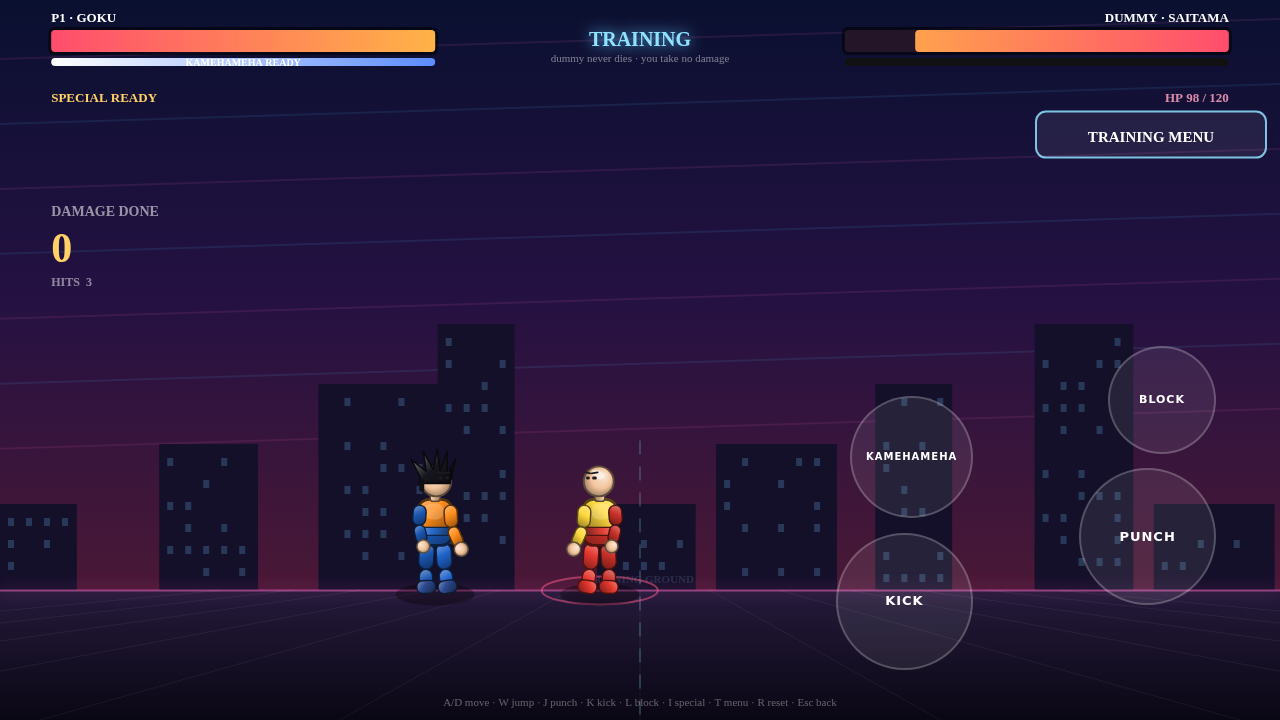
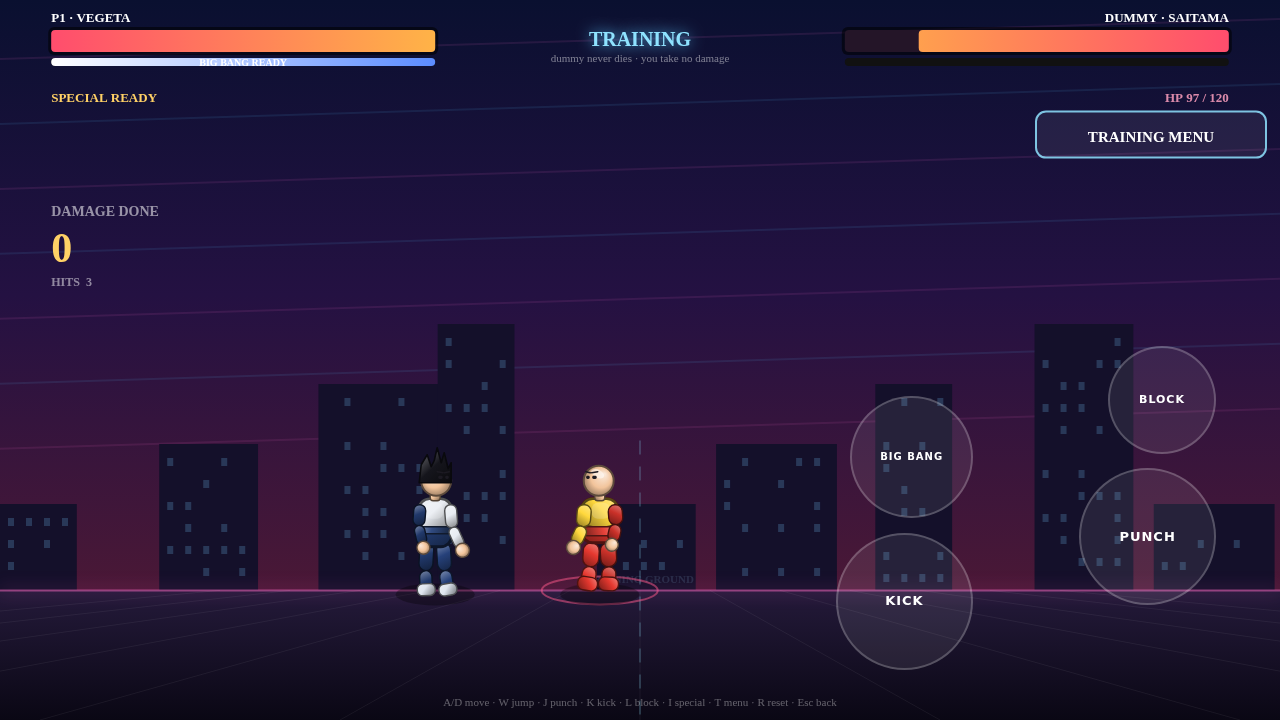
cursed-clash: per-character animation styles (brawler/royal/casual/ninja/samurai) — distinct stance width, idle arms, punch/kick/block curves, walk amplitudes; training picker now chooses the PLAYER (dummy follows as next char)

diff --git a/cursed-clash.html b/cursed-clash.html
@@ -132,31 +132,31 @@ function drawArm3d(g,shX,shY,upAng,elbAng,upLen,foreLen,wdt,col,handCol,handR){
    ============================================================ */
 const CHARS = [
   { id:'goku', name:'GOKU', tag:'Saiyan Raised on Earth',
-    colA:'#ff8c1a', colB:'#1f63c9', colC:'#16161e', skin:'#f2c49b', shoe:'#2b4a8f', hair:'goku',
+    colA:'#ff8c1a', colB:'#1f63c9', colC:'#16161e', skin:'#f2c49b', shoe:'#2b4a8f', hair:'goku', style:'brawler',
     hp:110, speed:320, dmg:1.00,
     ability:{name:'KAMEHAMEHA', short:'KAMEHAMEHA', type:'wave',
       desc:'Cups both palms and fires a huge blue-white ki beam straight across the screen.', dmg:20, kb:430, speed:640, col:'#63c8ff'} },
 
   { id:'vegeta', name:'VEGETA', tag:'Prince of All Saiyans',
-    colA:'#e8ecf2', colB:'#26417a', colC:'#15151c', skin:'#f2c49b', shoe:'#dfe6ef', hair:'vegeta',
+    colA:'#e8ecf2', colB:'#26417a', colC:'#15151c', skin:'#f2c49b', shoe:'#dfe6ef', hair:'vegeta', style:'royal',
     hp:105, speed:315, dmg:1.05,
     ability:{name:'BIG BANG ATTACK', short:'BIG BANG', type:'orb',
       desc:'Hurls a huge blue-white ki sphere that pierces through anything.', dmg:26, kb:400, speed:300, col:'#8fd8ff', bigOrb:true, r:42} },
 
   { id:'saitama', name:'SAITAMA', tag:'One Punch',
-    colA:'#ffd83d', colB:'#e5382f', colC:'#eef2f5', skin:'#f2c49b', shoe:'#e5382f', hair:'bald',
+    colA:'#ffd83d', colB:'#e5382f', colC:'#eef2f5', skin:'#f2c49b', shoe:'#e5382f', hair:'bald', style:'casual',
     hp:120, speed:340, dmg:1.20,
     ability:{name:'SERIOUS PUNCH', short:'SERIOUS', type:'burst',
       desc:'One punch. Massive damage if it connects.', dmg:34, kb:620, dashT:0.34, col:'#ffe14d', fx:'punch'} },
 
   { id:'hiei', name:'HIEI', tag:'Master of the Jagan',
-    colA:'#191b26', colB:'#4a2a7a', colC:'#0c0c12', skin:'#e9cda9', shoe:'#101018', hair:'hiei',
+    colA:'#191b26', colB:'#4a2a7a', colC:'#0c0c12', skin:'#e9cda9', shoe:'#101018', hair:'hiei', style:'ninja',
     hp:100, speed:352, dmg:1.08,
     ability:{name:'DRAGON OF THE DARKNESS FLAME', short:'DARK FLAME', type:'wave',
       desc:'Unleashes the black dragon of the Darkness Flame straight across the screen.', dmg:24, kb:470, speed:560, col:'#a24dff', kind:'dragon', r:42, h:96} },
 
   { id:'shishio', name:'SHISHIO', tag:'The Hitokiri Battousai Slayer',
-    colA:'#2b2430', colB:'#c9b79a', colC:'#141018', skin:'#e7c6a1', shoe:'#1c1720', hair:'shishio',
+    colA:'#2b2430', colB:'#c9b79a', colC:'#141018', skin:'#e7c6a1', shoe:'#1c1720', hair:'shishio', style:'samurai',
     hp:108, speed:326, dmg:1.12,
     ability:{name:'HOMURA DAMA', short:'HOMURA DAMA', type:'burst',
       desc:'Erupts in searing flame — a point-blank blast that shreds through guard.', dmg:28, kb:560, dashT:0.32, col:'#ff5a1f', fx:'fire'} }
@@ -502,9 +502,54 @@ class Fighter {
 // Walk cycle: distance the fighter travels per full stride (2 steps).
 // Keep ground speed locked to the cycle so the feet plant without sliding.
 const WALK_CYCLE_PX = 84;   // ~2x the planted foot's ground travel per step
-function walkJoint(K){
+/* ---- per-character animation styles ---- */
+const STYLE = { BRAWLER:'brawler', ROYAL:'royal', CASUAL:'casual', NINJA:'ninja', SAMURAI:'samurai' };
+const STYLE_CFG = {
+  brawler:{ label:'heavy brawler', shoulderY:-86, torsoW:34, torsoH:46, beltH:8, legW:15, thigh:26, shin:24,
+    armW:13, upLen:20, foreLen:18,
+    spread:11, idle:{bUp:0.34,bElb:-0.55,fUp:0.30,fElb:-0.66},
+    walk:{ hipAmp:1.0, kneeAmp:1.0, hipRaise:0, hipBack:0, lean:0.10, armAmp:1.0, sway:2.4 },
+    punch:{ wind:[0.10,-0.55,-0.30,-1.75], hit:[-0.55,-1.52,-1.75,-0.04], rec:[-1.52,0.05,-0.04,-0.32], lean:0 },
+    kickRear:[0.14,-0.20], kick:{ w:[-0.10,-1.05,-0.20,-1.55,0,0.3], h:[-1.05,-1.42,-1.55,-0.08,0,-0.35], r:[-0.06,-0.14,-0.35,0] },
+    block:{ f:[-Math.PI/2+0.9,-0.9], b:[-Math.PI/2+0.9,-0.9], lean:0 },
+    idlePhase:0.0 },
+  royal:{ label:'royal kickboxer', shoulderY:-86, torsoW:33, torsoH:48, beltH:7, legW:14, thigh:28, shin:25,
+    armW:12, upLen:21, foreLen:19,
+    spread:8, idle:{bUp:-1.12,bElb:-1.32,fUp:-1.00,fElb:-1.42},
+    walk:{ hipAmp:1.14, kneeAmp:1.14, hipRaise:0, hipBack:0.05, lean:0.17, armAmp:0.72, sway:2.0 },
+    punch:{ wind:[0.10,-0.30,-0.32,-1.95], hit:[-0.30,-1.62,-1.95,-0.02], rec:[-1.62,0.10,-0.02,-0.40], lean:0.04 },
+    kickRear:[0.16,-0.24], kick:{ w:[-0.12,-1.20,-0.24,-1.72,0,0.36], h:[-1.20,-1.55,-1.72,-0.06,0,-0.42], r:[-0.08,-0.16,-0.42,0] },
+    block:{ f:[-2.22,-1.05], b:[-2.12,-1.15], lean:0.02 },
+    idlePhase:0.7 },
+  casual:{ label:'lazy puncher', shoulderY:-87, torsoW:36, torsoH:44, beltH:9, legW:16, thigh:24, shin:24,
+    armW:14, upLen:20, foreLen:17,
+    spread:6, idle:{bUp:0.04,bElb:-0.14,fUp:0.02,fElb:-0.20},
+    walk:{ hipAmp:0.78, kneeAmp:0.72, hipRaise:2.5, hipBack:0, lean:0.05, armAmp:0.55, sway:3.0 },
+    punch:{ wind:[0.10,-0.15,-0.30,-1.20], hit:[-0.15,-1.40,-1.20,0.06], rec:[-1.40,0.02,0.06,-0.18], lean:0 },
+    kickRear:[0.10,-0.16], kick:{ w:[-0.08,-0.78,-0.16,-1.15,0,0.22], h:[-0.78,-1.10,-1.15,-0.10,0,-0.24], r:[-0.05,-0.12,-0.24,0] },
+    block:{ f:[-0.40,-1.30], b:[0.25,-0.70], lean:0 },
+    idlePhase:1.3 },
+  ninja:{ label:'quick ninja', shoulderY:-84, torsoW:32, torsoH:45, beltH:6, legW:13, thigh:27, shin:24,
+    armW:12, upLen:19, foreLen:18,
+    spread:7, idle:{bUp:-0.62,bElb:-1.52,fUp:-0.52,fElb:-1.62},
+    walk:{ hipAmp:1.10, kneeAmp:1.30, hipRaise:0, hipBack:0.03, lean:0.23, armAmp:0.70, sway:1.6 },
+    punch:{ wind:[0.10,-0.75,-0.30,-2.05], hit:[-0.75,-1.48,-2.05,-0.12], rec:[-1.48,0.00,-0.12,-0.28], lean:0.03 },
+    kickRear:[0.12,-0.28], kick:{ w:[-0.10,-1.05,-0.30,-1.70,0,0.30], h:[-1.05,-1.48,-1.70,-0.05,0,-0.30], r:[-0.06,-0.12,-0.30,0] },
+    block:{ f:[-1.95,-0.75], b:[-0.45,-1.35], lean:0 },
+    idlePhase:1.9 },
+  samurai:{ label:'stern swordsman', shoulderY:-90, torsoW:35, torsoH:50, beltH:8, legW:15, thigh:28, shin:26,
+    armW:13, upLen:21, foreLen:19,
+    spread:12, idle:{bUp:0.42,bElb:-0.85,fUp:0.52,fElb:-0.95},
+    walk:{ hipAmp:0.88, kneeAmp:0.90, hipRaise:0, hipBack:0, lean:0.12, armAmp:0.45, sway:1.1 },
+    punch:{ wind:[0.10,-0.35,-0.32,-1.60], hit:[-0.35,-1.58,-1.60,0.04], rec:[-1.58,0.06,0.04,-0.44], lean:0.05 },
+    kickRear:[0.16,-0.22], kick:{ w:[-0.12,-0.95,-0.22,-1.35,0,0.28], h:[-0.95,-1.38,-1.35,-0.10,0,-0.28], r:[-0.06,-0.14,-0.28,0] },
+    block:{ f:[-1.55,-0.65], b:[0.70,-0.95], lean:0 },
+    idlePhase:2.4 }
+};
+function styleConfig(c){ return STYLE_CFG[c.style] || STYLE_CFG.brawler; }
+function walkJoint(K,sk){
   K=((K%1)+1)%1;
-  const ease=t=>t*t*(3-2*t);
+  const e=sk?sk.walk:STYLE_CFG.brawler.walk, ease=t=>t*t*(3-2*t);
   const C=(keys)=>{                              // smooth keyed curve
     for(let i=0;i<keys.length-1;i++){
       const [k0,v0]=keys[i], [k1,v1]=keys[i+1];
@@ -512,10 +557,23 @@ function walkJoint(K){
     }
     return keys[keys.length-1][1];
   };
-  const hipFwd  = C([[0,.50],[.12,.29],[.25,.06],[.40,-.24],[.50,-.44],[.62,-.26],[.75,.13],[.88,.44],[1,.50]]); // + = knee forward
-  const kneeFlex= C([[0,.16],[.12,.28],[.25,.20],[.40,.16],[.50,.40],[.62,.95],[.72,1.28],[.82,.82],[.92,.32],[1,.16]]); // + = heel folds back
-  const ank     = C([[0,-.10],[.12,.05],[.25,.00],[.40,.10],[.50,.45],[.62,.30],[.72,.05],[.82,-.05],[.92,-.12],[1,-.10]]); // + = toes down
+  const ha=e.hipAmp;
+  const hipFwd  = C([[0,.50],[.12,.29],[.25,.06],[.40,-.24],[.50,-.44],[.62,-.26],[.75,.13],[.88,.44],[1,.50]])*ha + (e.hipBack||0); // + = knee forward
+  const kneeFlex= C([[0,.16],[.12,.28],[.25,.20],[.40,.16],[.50,.40],[.62,.95],[.72,1.28],[.82,.82],[.92,.32],[1,.16]])*e.kneeAmp; // + = heel folds back
+  const ank     = C([[0,-.10],[.12,.05],[.25,.00],[.40,.10],[.50,.45],[.62,.30],[.72,.05],[.82,-.05],[.92,-.12],[1,-.10]])*ha; // + = toes down
   return {thigh:-hipFwd, knee:kneeFlex, foot:ank};
+}
+function kickPose(st,stage,k){
+  const S=st.kick;
+  if(stage==='wind') return {th:lerp(S.w[0],S.w[1],k), kn:lerp(S.w[2],S.w[3],k), ft:lerp(S.w[4],S.w[5],k)};
+  if(stage==='hit')  return {th:lerp(S.h[0],S.h[1],k), kn:lerp(S.h[2],S.h[3],k), ft:lerp(S.h[4],S.h[5],k)};
+  return {th:S.r[0]+(S.h[1]-S.r[0])*0, kn:S.r[1], ft:lerp(S.r[2],S.r[3],k), rec:true};
+}
+function punchPose(st,stage,k){
+  const P=st.punch;
+  if(stage==='wind') return {fUp:lerp(P.wind[0],P.wind[1],k), fElb:lerp(P.wind[2],P.wind[3],k)};
+  if(stage==='hit')  return {fUp:lerp(P.hit[0],P.hit[1],k),  fElb:lerp(P.hit[2],P.hit[3],k)};
+  return {fUp:lerp(P.rec[0],P.rec[1],k), fElb:lerp(P.rec[2],P.rec[3],k)};
 }
 function atkStage(a){
   if(a.t < a.startup)               return {stage:'wind', k: a.startup?a.t/a.startup:1};
@@ -539,35 +597,36 @@ function paintFighter(g,c,S){
   const pnPh = (pn && S.atk) ? atkStage(S.atk) : null;
   const kkPh = (kk && S.atk) ? atkStage(S.atk) : null;
 
+  // ---- per-character style ----
+  const STD=styleConfig(c), WK=STD.walk;
   // ---- legs (thigh + shin + foot, knee folds backward) ----
-  const HIP_Y=-48+bob, THIGH=26, SHIN=24, LEGW=15;
+  const HIP_Y=-48+bob, THIGH=STD.thigh, SHIN=STD.shin, LEGW=STD.legW;
+  const SP=STD.spread!=null?STD.spread:8;
   if(kkPh){
     // planted rear leg
-    drawLeg3d(g,-8,HIP_Y, 0.14,-0.20, THIGH,SHIN,LEGW, dark(c.colB,0.12), shoe);
+    drawLeg3d(g,-SP,HIP_Y, STD.kickRear[0],STD.kickRear[1], THIGH,SHIN,LEGW, dark(c.colB,0.12), shoe);
     // kicking front leg: knee up -> snap out -> retract
-    let th,kn,ft,k;
-    if(kkPh.stage==='wind'){ k=smooth(kkPh.k); th=lerp(-0.10,-1.05,k); kn=lerp(-0.20,-1.55,k); ft=0.3*k; }
-    else if(kkPh.stage==='hit'){ k=smooth(kkPh.k); th=lerp(-1.05,-1.42,k); kn=lerp(-1.55,-0.08,k); ft=-0.35*k; }
-    else { k=smooth(kkPh.k); th=lerp(-1.42,-0.06,k); kn=lerp(-0.08,-0.14,k); ft=-0.35*(1-k); }
-    drawLeg3d(g,8,HIP_Y, th,kn, THIGH,SHIN,LEGW, c.colB, shoe, ft);
+    const p=kickPose(STD,kkPh.stage,smooth(kkPh.k));
+    drawLeg3d(g,SP,HIP_Y, p.th,p.kn, THIGH,SHIN,LEGW, c.colB, shoe, p.ft);
   } else if(walking){
-    for(const L of [{hip:-8,ph:0,col:dark(c.colB,0.12)},{hip:8,ph:0.5,col:c.colB}]){
-      const j=walkJoint(a/6.2831853+L.ph);          // real hip/knee/ankle curves
+    for(const L of [{hip:-SP,ph:0,col:dark(c.colB,0.12)},{hip:SP,ph:0.5,col:c.colB}]){
+      const j=walkJoint(a/6.2831853+L.ph, STD);      // real hip/knee/ankle curves (per-style)
       drawLeg3d(g,L.hip,HIP_Y,j.thigh,j.knee,THIGH,SHIN,LEGW,L.col,shoe,j.foot);
     }
   } else if(airborne){
-    drawLeg3d(g,-8,HIP_Y, 0.45,-0.75, THIGH,SHIN,LEGW,dark(c.colB,0.12),shoe, 0.3);
-    drawLeg3d(g, 8,HIP_Y,-0.35,-0.5,  THIGH,SHIN,LEGW,c.colB,shoe, 0.3);
+    drawLeg3d(g,-SP,HIP_Y, 0.45,-0.75, THIGH,SHIN,LEGW,dark(c.colB,0.12),shoe, 0.3);
+    drawLeg3d(g, SP,HIP_Y,-0.35,-0.5,  THIGH,SHIN,LEGW,c.colB,shoe, 0.3);
   } else {
-    drawLeg3d(g,-8,HIP_Y, 0.06,-0.10, THIGH,SHIN,LEGW,dark(c.colB,0.12),shoe);
-    drawLeg3d(g, 8,HIP_Y,-0.06,-0.10, THIGH,SHIN,LEGW,c.colB,shoe);
+    drawLeg3d(g,-SP,HIP_Y, 0.06,-0.10, THIGH,SHIN,LEGW,dark(c.colB,0.12),shoe);
+    drawLeg3d(g, SP,HIP_Y,-0.06,-0.10, THIGH,SHIN,LEGW,c.colB,shoe);
   }
 
   // ---- torso ----
-  part3d(g,-17,-92+bob,34,46,11,sub);
-  part3d(g,-17,-92+bob,34,30,11,gi);             // gi top
+  const TW=STD.torsoW, TH=STD.torsoH, TX=-TW/2, TY=-92+bob;
+  part3d(g,TX,TY,TW,TH,11,sub);
+  part3d(g,TX,TY,TW,TH*0.65,11,gi);             // gi top
   g.save();                                      // sash / belt
-  part3d(g,-17,-64+bob,34,8,3, light(c.colB,0.05));
+  part3d(g,TX,-64+bob,TW,STD.beltH,3, light(c.colB,0.05));
   g.restore();
   // chest emblem highlight
   g.save(); g.globalAlpha=.20; g.fillStyle='#fff';
@@ -575,31 +634,29 @@ function paintFighter(g,c,S){
 
   // ---- back arm (counterbalances the front arm) ----
   const armSw = walking ? Math.cos(a) : Math.sin(t*2)*4;
+  const aAmp = walking ? WK.armAmp : 1;
   let bUp, bElb;
-  if(walking){ bUp=armSw*0.55; bElb=-0.5-Math.max(0,armSw)*0.35; }
-  else if(pnPh && S.atk.kind==='punch'){ bUp=Math.PI/2-0.35; bElb=-1.15; }   // retract to guard
+  if(walking){ bUp=armSw*0.55*aAmp; bElb=-0.5-Math.max(0,armSw)*0.35*aAmp; }
+  else if(pnPh && S.atk.kind==='punch'){ bUp=STD.block.b[0]; bElb=STD.block.b[1]; }   // retract to guard
   else if(kkPh){ bUp=1.15; bElb=-0.55; }                                     // swing back for balance
-  else if(eB){ bUp=-Math.PI/2+0.9; bElb=-0.9; }
+  else if(eB){ bUp=STD.block.b[0]; bElb=STD.block.b[1]; }
   else if(sp){ bUp=-Math.PI/2-0.35; bElb=-0.35; }
-  else { bUp=0.08; bElb=-0.30; }
-  drawArm3d(g,-15,-86+bob, bUp, bElb, 20,18, 13, dark(c.colB,0.12), skin, 6.5);
+  else { bUp=STD.idle.bUp; bElb=STD.idle.bElb; }
+  drawArm3d(g,-15,-86+bob, bUp, bElb, STD.upLen,STD.foreLen, STD.armW, dark(c.colB,0.12), skin, 6.5);
 
   // ---- front arm ----
   let fUp, fElb;
   if(pnPh && S.atk){
-    // wind up (pull elbow back) -> snap out straight -> retract
-    let k;
-    if(pnPh.stage==='wind'){ k=smooth(pnPh.k); fUp=lerp(0.10,-0.55,k); fElb=lerp(-0.30,-1.75,k); }
-    else if(pnPh.stage==='hit'){ k=smooth(pnPh.k); fUp=lerp(-0.55,-1.52,k); fElb=lerp(-1.75,-0.04,k); }
-    else { k=smooth(pnPh.k); fUp=lerp(-1.52,0.05,k); fElb=lerp(-0.04,-0.32,k); }
+    // wind up (pull elbow back) -> snap out straight -> retract (per-style)
+    const p=punchPose(STD,pnPh.stage,smooth(pnPh.k)); fUp=p.fUp; fElb=p.fElb;
   } else if(kkPh){
     fUp=-0.75; fElb=-0.9;                                                      // arms up while kicking
   } else if(walking){
-    fUp=-Math.cos(a)*0.55; fElb=-0.45-Math.max(0,Math.cos(a))*0.5;   // near arm opposes the far leg
-  } else if(eB){ fUp=-Math.PI/2+0.9; fElb=-0.9; }
+    fUp=-Math.cos(a)*0.55*aAmp; fElb=-0.45-Math.max(0,Math.cos(a))*0.5*aAmp;   // near arm opposes the far leg
+  } else if(eB){ fUp=STD.block.f[0]; fElb=STD.block.f[1]; }
   else if(sp){ fUp=-Math.PI/2-0.35; fElb=-0.35; }
-  else { fUp=Math.sin(t*2)*0.10; fElb=-0.35; }
-  drawArm3d(g,15,-86+bob, fUp, fElb, 22,20, 13, gi, skin, 7);
+  else { fUp=STD.idle.fUp+Math.sin(t*2)*0.05; fElb=STD.idle.fElb; }
+  drawArm3d(g,15,-86+bob, fUp, fElb, STD.upLen+2,STD.foreLen+2, STD.armW, gi, skin, 7);
 
   // punching fist highlight
   if(pnPh && pnPh.stage==='hit' && S.atk){
@@ -1109,7 +1166,7 @@ let trainT=0, trainDummyIdx=1, trainButtons=[], trainHits=0, trainCombo=0, train
 let trainMaxCombo=0, trainMsg='', trainMsgT=0;
 function resetTraining(){
   const gy=GROUND_Y();
-  p1.applyChar(CHARS[selIndex]); p2.applyChar(CHARS[1]);
+  p1.applyChar(CHARS[selIndex]); p2.applyChar(trainDummyChar());
   p1.role='player'; p2.role='dummy';
   p1.ai=false; p2.ai=false; p2.dir=-1;
   p1.x=W*0.34; p2.x=W*0.34+96; p1.y=p2.y=gy;
@@ -1122,7 +1179,11 @@ function resetTraining(){
   trainT=0; trainMenuOpen=false;
 }
 function openTraining(){ screen='training'; resetTraining(); padEl.classList.remove('hidden'); superBtn.textContent=p1.char.ability.short; }
-function trainSetDummy(i){ trainDummyIdx=(i+CHARS.length)%CHARS.length; p2.applyChar(CHARS[trainDummyIdx]); p2.hp=p2.maxhp; p2.ko=false; p2.state=POSE.IDLE; }
+function trainDummyChar(){ return CHARS[(selIndex+1)%CHARS.length]; }
+function trainSetPlayer(i){ selIndex=(i+CHARS.length)%CHARS.length;
+  p1.applyChar(CHARS[selIndex]); p1.hp=p1.maxhp; p1.meter=p1.maxMeter; p1.atk=null; p1.ko=false; p1.hitStun=0; p1.superT=0; p1.state=POSE.IDLE; p1.dir=1;
+  const dc=trainDummyChar(); p2.applyChar(dc); p2.hp=p2.maxhp; lastDummyHp=p2.maxhp; p2.ko=false; p2.atk=null; p2.state=POSE.IDLE; p2.dir=-1;
+  superBtn.textContent=p1.char.ability.short; clearProjectiles(); fx.length=0; }
 function trainReset(){ const dx=p2.x, dy=p2.y; p1.x=W*0.34; p1.vx=p1.vy=0; p1.hp=p1.maxhp; p1.meter=p1.maxMeter; p1.atk=null; p1.ko=false; p1.hitStun=0; p1.superT=0; p1.state=POSE.IDLE; p1.dir=1;
   p2.x=dx; p2.y=dy; p2.hp=p2.maxhp; p2.ko=false; p2.atk=null; p2.hitStun=0; p2.state=POSE.IDLE; p2.dir=-1;
   clearProjectiles(); fx.length=0; trainHits=0; trainCombo=0; trainMaxCombo=0; trainDispDmg=0; lastDummyHp=p2.maxhp; }
@@ -1226,7 +1287,7 @@ function drawTrainingHUD(g){
   g.globalAlpha=1; g.fillStyle='#fff'; g.textAlign='center'; g.font='bold 15px Trebuchet MS';
   g.fillText('TRAINING MENU',mb.x+mb.w/2,mb.y+mb.h*0.66); g.restore();
   g.save(); g.textAlign='center'; g.font='11px Trebuchet MS'; g.fillStyle='rgba(255,255,255,.35)';
-  g.fillText(isTouch?'TAP "TRAINING MENU" to switch dummy · SUPER button to test special':'A/D move · W jump · J punch · K kick · L block · I special · T menu · R reset · Esc back',W/2,H-14);
+  g.fillText(isTouch?'TAP "TRAINING MENU" to switch YOUR fighter · SUPER button to test special':'A/D move · W jump · J punch · K kick · L block · I special · T menu · R reset · Esc back',W/2,H-14);
   g.restore();
 }
 function renderTrainMenu(g){
@@ -1240,12 +1301,12 @@ function renderTrainMenu(g){
   g.save(); g.textAlign='center'; g.fillStyle='#fff'; g.font='bold 22px Trebuchet MS';
   g.fillText('TRAINING MENU',W/2,y+40); g.restore();
   g.save(); g.textAlign='left'; g.fillStyle='rgba(160,220,255,.85)'; g.font='bold 13px Trebuchet MS';
-  g.fillText('CHOOSE YOUR DUMMY',x+30,y+78); g.restore();
+  g.fillText('CHOOSE YOUR FIGHTER',x+30,y+78); g.restore();
   trainBtns=[];
   const n=CHARS.length, ts=Math.min(w*0.13,66), gap=ts*0.24, tot=n*ts+(n-1)*gap, sx=W/2-tot/2, ty=y+96;
   for(let i=0;i<n;i++){
-    const c=CHARS[i], bx=sx+i*(ts+gap), sel=i===trainDummyIdx;
-    const r={x:bx,y:ty,w:ts,h:ts,fn:()=>trainSetDummy(i)};
+    const c=CHARS[i], bx=sx+i*(ts+gap), sel=i===selIndex;
+    const r={x:bx,y:ty,w:ts,h:ts,fn:()=>trainSetPlayer(i)};
     trainBtns.push(r);
     g.save();
     g.fillStyle=sel?'rgba(255,90,140,.28)':'rgba(10,30,60,.6)'; roundRect(g,bx,ty,ts,ts,8); g.fill();
@@ -1254,8 +1315,10 @@ function renderTrainMenu(g){
     g.save(); g.translate(bx+ts/2,ty+ts-6); g.scale(ts/120*0.62,ts/120*0.62);
     paintFighter(g,c,{t:trainT+i*0.7,state:POSE.IDLE,anim:0,atk:null,hitFlash:0,superT:0}); g.restore();
   }
-  g.save(); g.textAlign='center'; g.fillStyle=CHARS[trainDummyIdx].colA; g.font='bold 14px Trebuchet MS';
-  g.fillText(CHARS[trainDummyIdx].name+'  ·  '+CHARS[trainDummyIdx].tag,W/2,ty+ts+24); g.restore();
+  g.save(); g.textAlign='center'; g.fillStyle=CHARS[selIndex].colA; g.font='bold 14px Trebuchet MS';
+  g.fillText(CHARS[selIndex].name+'  ·  '+CHARS[selIndex].tag,W/2,ty+ts+24); g.restore();
+  g.save(); g.textAlign='center'; g.fillStyle='rgba(255,160,190,.8)'; g.font='bold 12px Trebuchet MS';
+  g.fillText('DUMMY: '+CHARS[(selIndex+1)%CHARS.length].name,W/2,ty+ts+42); g.restore();
   const bw=w*0.8, bh=Math.min(H*0.072,46), bx=W/2-bw/2; let byy=ty+ts+48;
   const acts=[
     {label:'RESET  —  heal + straighten up',fn:()=>{ trainReset(); setTrainMenuOpen(false); },col:'#7fd7ff'},
@@ -1308,8 +1371,8 @@ function onKeyPress(code){
     if(code==='Escape'){ if(trainMenuOpen) setTrainMenuOpen(false); else goMenu(); }
     if(code==='KeyT') setTrainMenuOpen(!trainMenuOpen);
     if(code==='KeyR') trainReset();
-    if(code==='KeyQ') trainSetDummy(trainDummyIdx-1);
-    if(code==='KeyE') trainSetDummy(trainDummyIdx+1);
+    if(code==='KeyQ') trainSetPlayer(selIndex-1);
+    if(code==='KeyE') trainSetPlayer(selIndex+1);
   }
   else if(screen==='over'){
     if(go.includes(code)){ rivalIndex=randomRival(); startFight(); }
@@ -1620,9 +1683,9 @@ function render(){
 
 goMenu();
 requestAnimationFrame(loop);
-window.CLASH = { p1,p2,CHARS, get screen(){return screen}, startFight, goSelect, goMenu, openTraining, trainReset, trainSetDummy,
+window.CLASH = { p1,p2,CHARS, get screen(){return screen}, startFight, goSelect, goMenu, openTraining, trainReset, trainSetPlayer,
   setSel(i){ selIndex=i; selFlash=0.25; }, get sel(){return selIndex},
-  get train(){ return {dummy:trainDummyIdx, hits:trainHits, combo:trainCombo, maxCombo:trainMaxCombo, dmg:trainDispDmg, menu:trainMenuOpen, t:trainT}; },
+  get train(){ return {player:selIndex, dummy:(selIndex+1)%CHARS.length, hits:trainHits, combo:trainCombo, maxCombo:trainMaxCombo, dmg:trainDispDmg, menu:trainMenuOpen, t:trainT}; },
   setTrainMenu(v){ trainMenuOpen=!!v; },
   // test hooks
   POSE, paintFighter, walkJoint, drawLeg3d, GROUND_Y,
